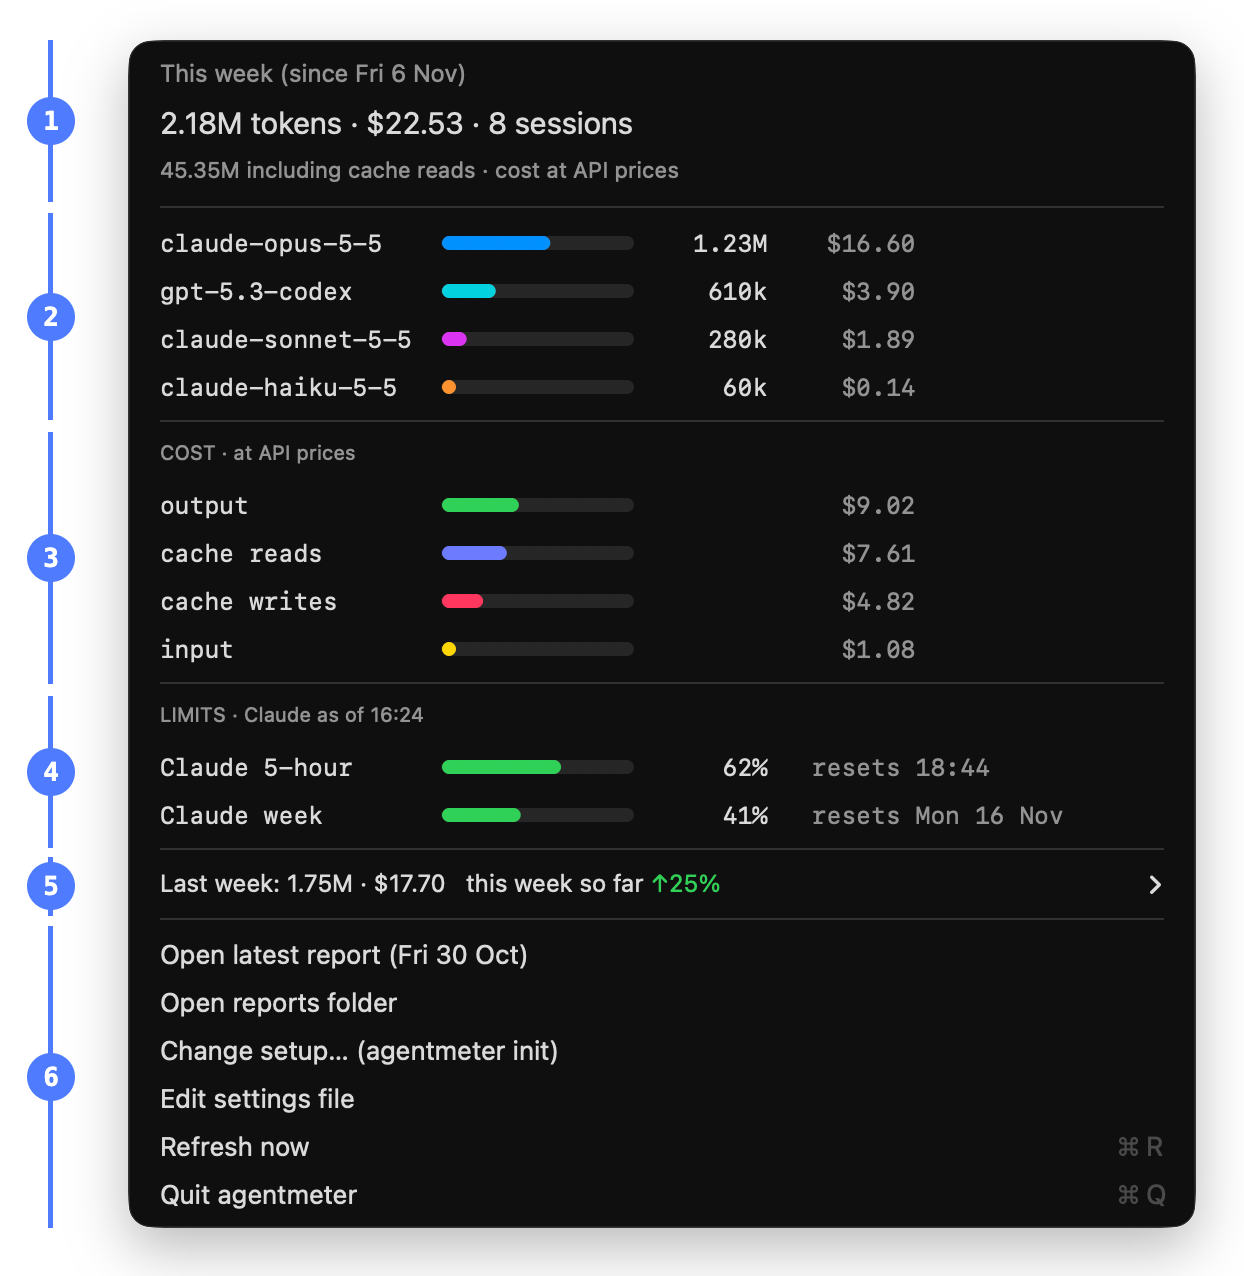
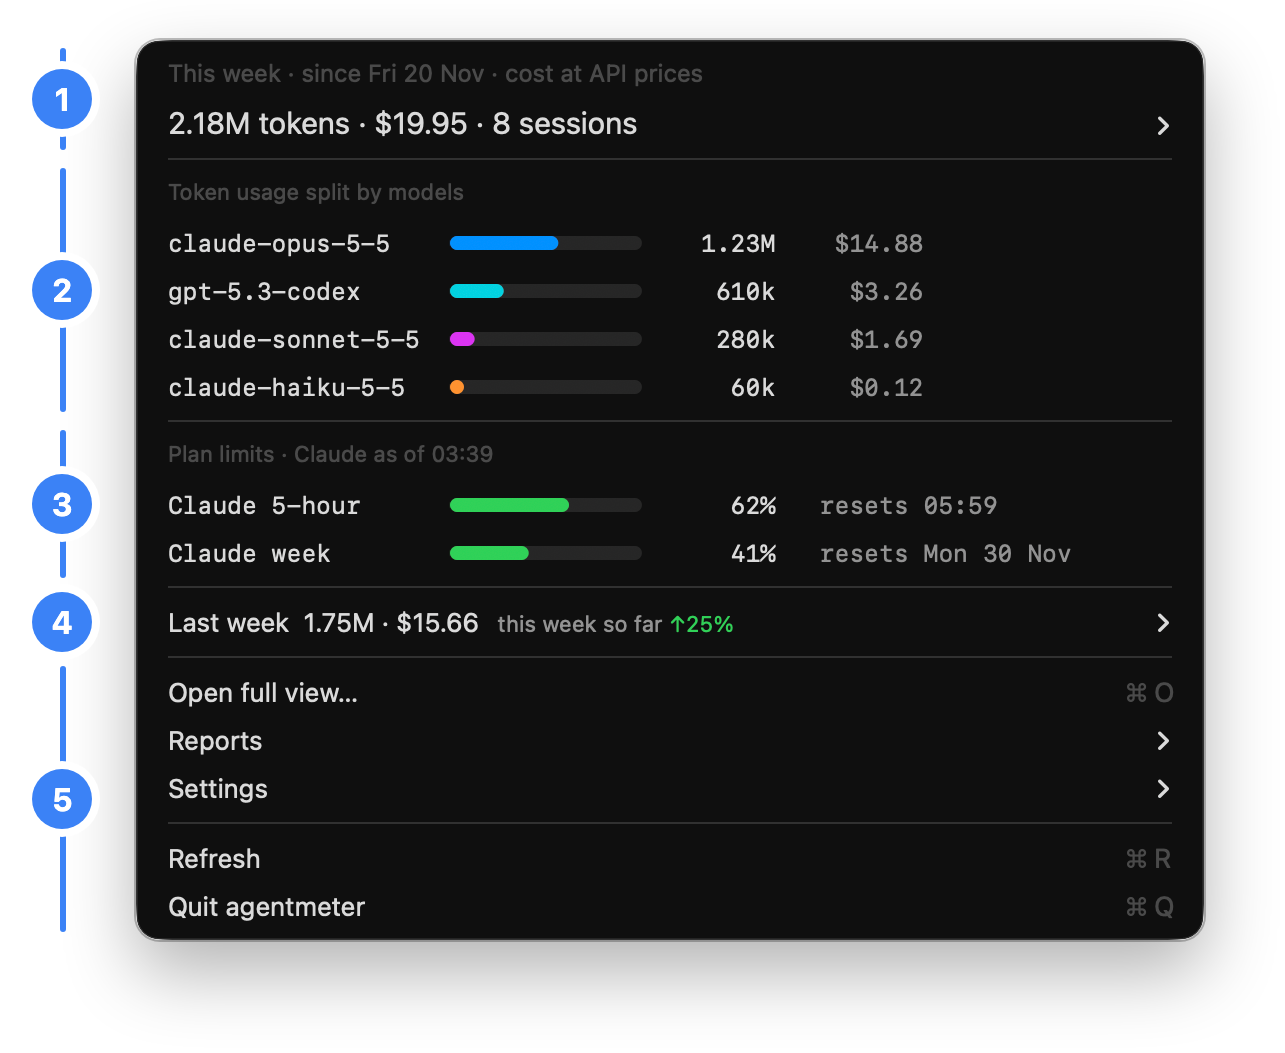
docs: retake README screenshots with demo data

diff --git a/README.md b/README.md
@@ -15,7 +15,7 @@
 </p>
 
 <p align="center">
-  <img src="docs/images/hero.png" alt="The agentmeter menu bar item showing TOKENS 2.18M, with its menu open: this week's tokens, cost and sessions, the cost split, Claude's 5-hour and weekly limits, tokens per model, and last week's total">
+  <img src="docs/images/hero.png" alt="The agentmeter menu bar item showing TOKENS 2.18M, with its menu open: this week\'s tokens, cost and sessions, token usage split by models, Claude\'s 5-hour and weekly limits, last week, and the actions">
 </p>
 
 <p align="center"><sub>Screenshots use demo data.</sub></p>
@@ -98,7 +98,7 @@ Last week's tokens and cost, and how this week compares so far. Hover for last w
 
 #### 5. Actions
 
-- **Open full view… (⌘O):** `agentmeter tui` in Terminal. Clicking this week or any model opens it too.
+- **Open full view… (⌘O):** `agentmeter tui` in Terminal. Clicking a model, a plan limit or a cost row opens it too; the grey captions are labels, not buttons.
 - **Reports:** the latest saved reports with their totals; each opens as Markdown. One is written when each week ends, and never changed after.
 - **Settings:** **Tools, window and routing…** asks the setup questions again in Terminal. **Open config file** opens `~/.config/agentmeter/config.json` for settings the questions don't cover, like extra prices. **Check setup…** runs `agentmeter doctor`.
 - **Refresh (⌘R):** re-reads the logs. The menu also refreshes every 15 minutes and each time you open it.
@@ -106,7 +106,7 @@ Last week's tokens and cost, and how this week compares so far. Hover for last w
 ## Any range, any time
 
 <p align="center">
-  <img src="docs/images/terminal.png" width="680" alt="agentmeter in a terminal: four weeks with tokens, cost and change, then this week's models in a table with share bars, cost and change">
+  <img src="docs/images/terminal.png" width="680" alt="agentmeter in a terminal: four weeks with tokens, cost and change, then this week\'s models in a table with share bars, cost and change, and Claude\'s plan limits">
 </p>
 
 ```sh
@@ -130,7 +130,7 @@ Plan limits (Claude's and Codex's 5-hour and weekly) come from what each tool ha
 ## A report every week
 
 <p align="center">
-  <img src="docs/images/report.png" width="760" alt="A weekly report: total tokens, the change from the previous week, and a per-model table with previous figures">
+  <img src="docs/images/report.png" width="760" alt="A weekly report: total tokens and cost, what the cost is made of, the change from the previous week, a per-model table with previous figures, and the largest sessions">
 </p>
 
 When a week ends, agentmeter saves it to `~/.local/share/agentmeter/reports/`, as Markdown to read and JSON for scripts. Reports are written once and kept. Claude Code deletes its logs after 30 days, so the saved reports become your history.

diff --git a/docs/maintaining.md b/docs/maintaining.md
@@ -14,7 +14,7 @@ To retake them:
 
 1. Write demo sessions in the generic format (see [adapters](adapters.md#your-own-tool)) covering at least three weeks, and a config pointing at them: `{"tools": ["generic"], "roots": {"generic": "<dir>"}, "period": {"start": "<a Friday three weeks back>", "length": "1w"}}`. Save demo reports with `AGENTMETER_CONFIG=<demo config> agentmeter reports save --dir <demo reports dir>`.
 2. Build the app in screenshot mode, which opens its own menu once data has loaded: `swiftc -O -swift-version 5 -D SCREENSHOT macos/AgentmeterBar.swift -o /tmp/bar-shot`.
-3. Stop the real app (`launchctl bootout gui/$(id -u)/io.github.agentmeter.bar`), run `AGENTMETER_CONFIG=<demo config> AGENTMETER_REPORTS=<demo reports dir> /tmp/bar-shot`, and capture the menu window alone with `screencapture -o -l <window id>` (find the id with `CGWindowListCopyWindowInfo`, owner `bar-shot`).
+3. Click a window on the Retina screen first: macOS opens the menu on the display that has focus, and a 1x display gives a soft picture. Stop the real app (`launchctl bootout gui/$(id -u)/io.github.agentmeter.bar`), run `AGENTMETER_CONFIG=<demo config> AGENTMETER_REPORTS=<demo reports dir> /tmp/bar-shot`, and capture the menu window alone with `screencapture -o -l <window id>` (find the id with `CGWindowListCopyWindowInfo`, owner `bar-shot`).
 4. Restart the real app: `launchctl bootstrap gui/$(id -u) ~/Library/LaunchAgents/io.github.agentmeter.bar.plist`.
 5. Render the HTML pages with headless Chrome at 2x: `--headless=new --force-device-scale-factor=2 --default-background-color=00000000 --screenshot`.
 
